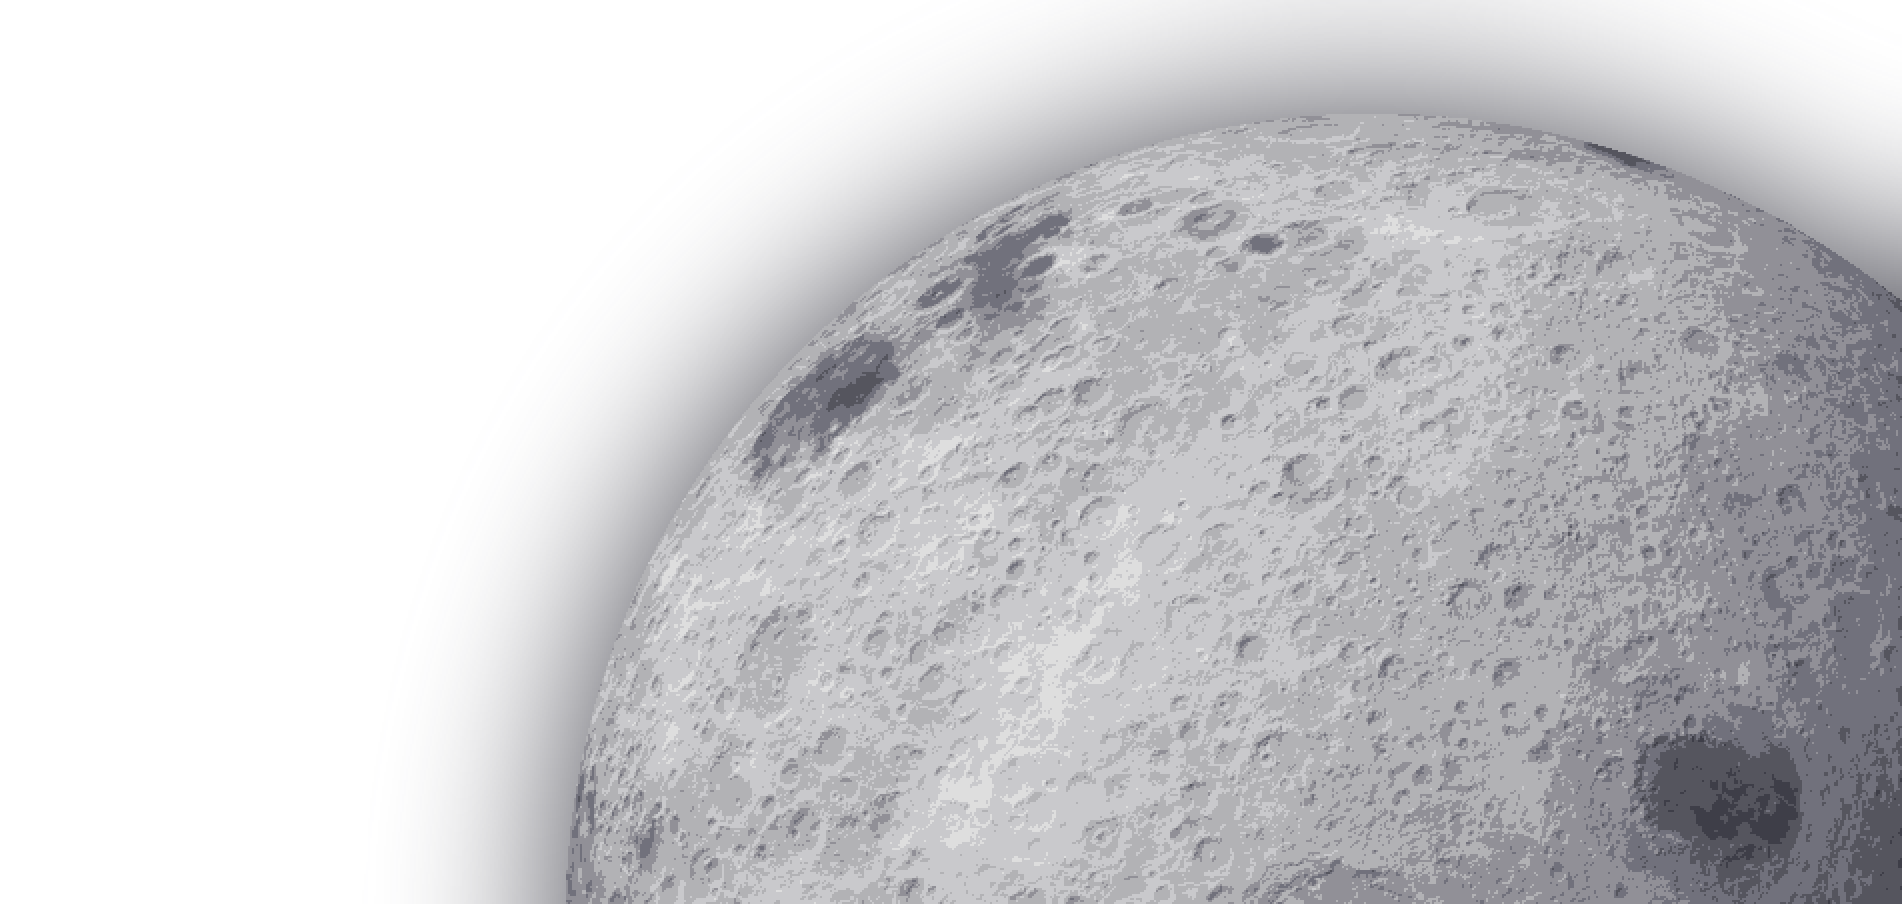
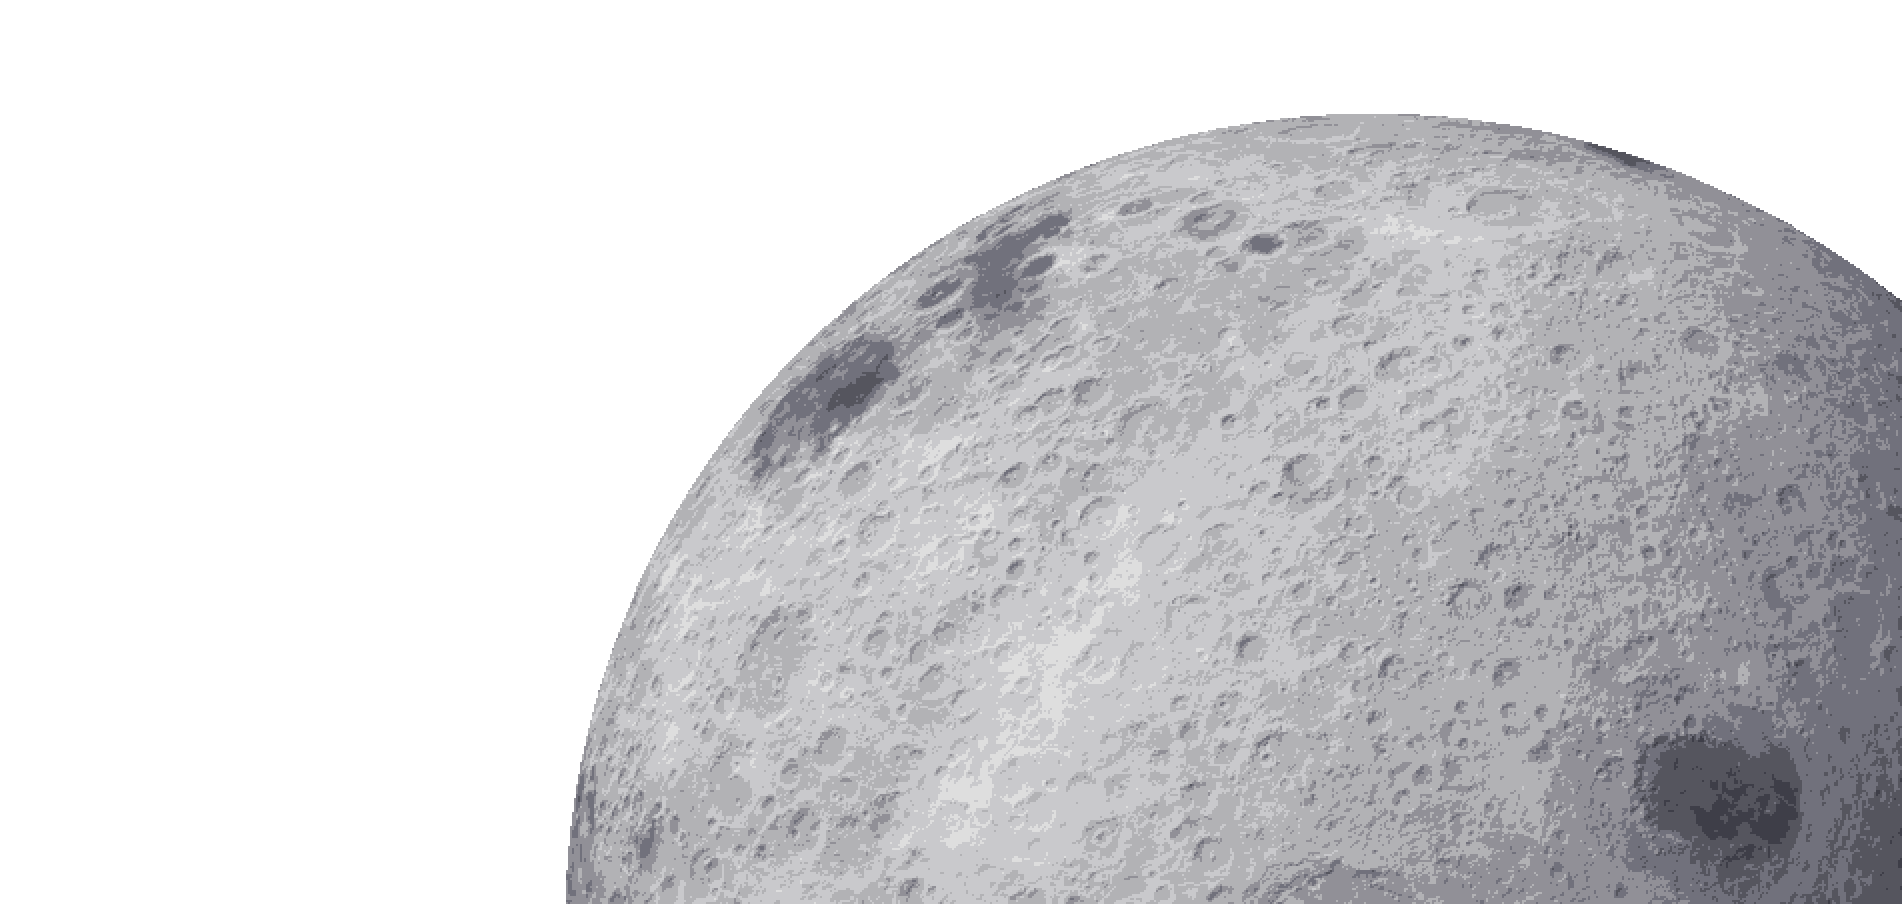
ported moon loading screens, added stars

Changed region(s): [[0.2482, 0.0, 1.0, 1.0]]

diff --git a/Content/Subworlds/Moon/Moon.cs b/Content/Subworlds/Moon/Moon.cs
@@ -6,6 +6,15 @@ using Terraria.ModLoader;
 using Terraria.UI;
 using Terraria.Graphics.Effects;
 using Macrocosm.Backgrounds.Moon;
+using Microsoft.Xna.Framework;
+using Microsoft.Xna.Framework.Graphics;
+using Macrocosm.Common.Utility.IO;
+using Macrocosm.Common.Utility;
+using Terraria.UI.Chat;
+using Terraria.GameContent;
+using ReLogic.Graphics;
+using Terraria.GameInput;
+using Macrocosm.Common.Drawing.Stars;
 
 namespace Macrocosm.Content.Subworlds.Moon
 {
@@ -16,8 +25,9 @@ namespace Macrocosm.Content.Subworlds.Moon
     /// </summary>
     public class Moon : Subworld
     {
+        public const float TimeRate = 0.125f;
 
-        public static float timeRate = 0.125f;
+        public override bool NormalUpdates => base.NormalUpdates;
 
         public override int Width => 2000;
         public override int Height => 1200; // 200 tile padding for the hell-layer.
@@ -28,31 +38,132 @@ namespace Macrocosm.Content.Subworlds.Moon
             new MoonGen("LoadingMoon", 1f, this)
         };
 
-        //public override UIState loadingUIState => new MoonSubworldLoadUI();
-        //public override ModWorld modWorld => null;
-        //public override bool saveModData => true;
-
+        private bool toEarth;
+        private double animationTimer;
+        private Texture2D lunaBackground ;
+        private Texture2D lunaAtmoBackground ;
+        private Texture2D earthBackground ;
+        private Texture2D earthAtmoBackground ;
+        private string chosenMessage;
+        private StarsDrawing starsDrawing = new();
+        private TextFileLoader textFileLoader = new();
 
         public override void OnEnter()
         {
+            animationTimer = 0;
+            lunaBackground = ModContent.Request<Texture2D>("Macrocosm/Content/Subworlds/LoadingBackgrounds/Luna").Value;
+            lunaAtmoBackground = ModContent.Request<Texture2D>("Macrocosm/Content/Subworlds/LoadingBackgrounds/LunaAtmo").Value;
+            toEarth = false;
+            chosenMessage = ListRandom.Pick(textFileLoader.Parse("Content/Subworlds/Moon/MoonMessages"));
+
+            starsDrawing.Clear();
+            starsDrawing.SpawnStars(50, 150);
+
             SkyManager.Instance.Activate("Macrocosm:MoonSky");
-            MoonSky.SpawnStarsOnMoon(true);
+            MoonSky.SpawnStarsOnMoon(Main.dayTime);
         }
 
         public override void OnExit()
         {
+            animationTimer = 0;
+            earthBackground = ModContent.Request<Texture2D>("Macrocosm/Content/Subworlds/LoadingBackgrounds/Earth").Value;
+            earthAtmoBackground = ModContent.Request<Texture2D>("Macrocosm/Content/Subworlds/LoadingBackgrounds/EarthAtmo").Value;
+            toEarth = true;
+            chosenMessage = ListRandom.Pick(textFileLoader.Parse("Content/Subworlds/Earth/EarthMessages"));
+
+            starsDrawing.Clear();
+            starsDrawing.SpawnStars(50, 150);
+            
+
             SkyManager.Instance.Deactivate("Macrocosm:MoonSky");
         }
-
 
         public override void Load()
         {
             // One Terraria day = 86400
             SubworldSystem.hideUnderworld = true;
             SubworldSystem.noReturn = true;
-            Main.dayTime = true;
             Main.numClouds = 0;
-          
+        }
+
+        public override void DrawSetup(GameTime gameTime)
+        {
+            PlayerInput.SetZoom_Unscaled();
+            Main.instance.GraphicsDevice.Clear(Color.Black);
+            this.DrawMenu(gameTime);
+        }
+
+        public override void DrawMenu(GameTime gameTime)
+        {
+            if (toEarth)
+            {
+                Main.spriteBatch.Begin(0, BlendState.Additive, SamplerState.LinearClamp, DepthStencilState.None, Main.Rasterizer, null, Main.UIScaleMatrix);
+                Main.spriteBatch.Draw
+                (
+                    earthAtmoBackground,
+                    new Rectangle(Main.screenWidth - earthAtmoBackground.Width, Main.screenHeight - earthAtmoBackground.Height + 50 - (int)(animationTimer * 10), earthAtmoBackground.Width, earthAtmoBackground.Height),
+                    null,
+                    Color.White * (float)(animationTimer / 5) * 0.8f
+                );
+                Main.spriteBatch.End();
+
+                Main.spriteBatch.Begin(0, BlendState.AlphaBlend, SamplerState.LinearClamp, DepthStencilState.None, Main.Rasterizer, null, Main.UIScaleMatrix);
+
+                starsDrawing.Draw(Main.spriteBatch);
+
+                Main.spriteBatch.Draw
+                (
+                    earthBackground,
+                    new Rectangle(Main.screenWidth - earthBackground.Width, Main.screenHeight - earthBackground.Height + 50 - (int)(animationTimer * 10), earthBackground.Width, earthBackground.Height),
+                    null,
+                    Color.White * (float)(animationTimer / 5) * 0.8f
+                );
+                string msgToPlayer = "Earth"; // Title
+                Vector2 messageSize = FontAssets.DeathText.Value.MeasureString(msgToPlayer) * 1.2f;
+                ChatManager.DrawColorCodedStringWithShadow(Main.spriteBatch, FontAssets.DeathText.Value, msgToPlayer, new Vector2(Main.screenWidth / 2f - messageSize.X / 2f, messageSize.Y), new Color(94, 150, 255), 0f, Vector2.Zero, new Vector2(1.2f));
+                Vector2 messageSize2 = FontAssets.DeathText.Value.MeasureString(chosenMessage) * 0.7f;
+                ChatManager.DrawColorCodedStringWithShadow(Main.spriteBatch, FontAssets.DeathText.Value, chosenMessage, new Vector2(Main.screenWidth / 2f - messageSize2.X / 2f, Main.screenHeight - messageSize2.Y - 20), Color.White, 0f, Vector2.Zero, new Vector2(0.7f));
+            }
+            else
+            {
+                Main.spriteBatch.Begin(0, BlendState.Additive, SamplerState.LinearClamp, DepthStencilState.None, Main.Rasterizer, null, Main.UIScaleMatrix);
+                Main.spriteBatch.Draw
+                (
+                    lunaAtmoBackground,
+                    new Rectangle(Main.screenWidth - lunaAtmoBackground.Width, Main.screenHeight - lunaAtmoBackground.Height + 50 - (int)(animationTimer * 10), lunaAtmoBackground.Width, lunaAtmoBackground.Height),
+                    null,
+                    Color.White * (float)(animationTimer / 5) * 0.8f
+                );
+                Main.spriteBatch.End();
+
+                Main.spriteBatch.Begin(0, BlendState.AlphaBlend, SamplerState.LinearClamp, DepthStencilState.None, Main.Rasterizer, null, Main.UIScaleMatrix);
+
+                starsDrawing.Draw(Main.spriteBatch);
+
+                Main.spriteBatch.Draw
+                (
+                    lunaBackground,
+                    new Rectangle(Main.screenWidth - lunaBackground.Width, Main.screenHeight - lunaBackground.Height + 50 - (int)(animationTimer * 10), lunaBackground.Width, lunaBackground.Height),
+                    null,
+                    Color.White * (float)(animationTimer / 5) * 0.8f
+                );
+
+                string msgToPlayer = "Earth's Moon"; // Title
+                Vector2 messageSize = FontAssets.DeathText.Value.MeasureString(msgToPlayer) * 1.2f;
+                ChatManager.DrawColorCodedStringWithShadow(Main.spriteBatch, FontAssets.DeathText.Value, msgToPlayer, new Vector2(Main.screenWidth / 2f - messageSize.X / 2f, messageSize.Y), Color.White, 0f, Vector2.Zero, new Vector2(1.2f));
+                Vector2 messageSize2 = FontAssets.DeathText.Value.MeasureString(chosenMessage) * 0.7f;
+                ChatManager.DrawColorCodedStringWithShadow(Main.spriteBatch, FontAssets.DeathText.Value, chosenMessage, new Vector2(Main.screenWidth / 2f - messageSize2.X / 2f, Main.screenHeight - messageSize2.Y - 20), Color.White, 0f, Vector2.Zero, new Vector2(0.7f));
+
+            }
+            ChatManager.DrawColorCodedStringWithShadow(Main.spriteBatch, FontAssets.DeathText.Value, Main.statusText, new Vector2((float)Main.screenWidth, (float)Main.screenHeight) / 2f - FontAssets.DeathText.Value.MeasureString(Main.statusText) / 2f, Color.White, 0f, Vector2.Zero, Vector2.One);
+
+            Main.DrawCursor(Main.DrawThickCursor(false), false);
+
+            Main.spriteBatch.End();
+
+            animationTimer += 0.125;
+            if (animationTimer > 5)
+                animationTimer = 5;
         }
     }
 }

diff --git a/Common/Drawing/Stars/MacrocosmStar.cs b/Common/Drawing/Stars/MacrocosmStar.cs
@@ -19,8 +19,8 @@ namespace Macrocosm.Common.Drawing.Stars
         /// <summary>
         /// Adapted from Star.SpawnStars
         /// </summary>
-        /// <param name="baseScale"> The average scaling of the stars </param>
-        /// <param name="twinkleFactor"> How much a star will twinkle, keep betweem (0f, 1f) </param>
+        /// <param name="baseScale"> The average scaling of the stars relative to vanilla </param>
+        /// <param name="twinkleFactor"> How much a star will twinkle, keep between (0f, 1f); 0.4f for vanilla effect</param>
         public MacrocosmStar(float baseScale = 1f, float twinkleFactor = 0.4f)
         {
             FastRandom fastRandom = FastRandom.CreateWithRandomSeed();
@@ -31,7 +31,7 @@ namespace Macrocosm.Common.Drawing.Stars
             rotation = fastRandom.Next(628) * 0.01f;
             scale = fastRandom.Next(70, 130) * 0.006f * baseScale;
             twinkle = Math.Clamp(fastRandom.Next(1, 101) * 0.01f, 1f - twinkleFactor, 1f);
-            twinkleSpeed = fastRandom.Next(30, 110) * 0.0001f;
+            twinkleSpeed = fastRandom.Next(30, 110) * 0.0001f; // TODO: add constructor argument for this
 
             if (fastRandom.Next(2) == 0)
                 twinkleSpeed *= -1f;

diff --git a/Common/Drawing/ChangeTileSkyColor.cs b/Common/Drawing/ChangeTileSkyColor.cs
@@ -6,7 +6,7 @@ using Macrocosm.Content.Subworlds.Moon;
 using Macrocosm.Common.Utility;
 
 namespace Macrocosm.Common.Drawing {
-    public class RemoveTileSkyColor : ILoadable
+    public class ChangeTileSkyColor : ILoadable
     {
         public void Load(Mod mod) {
             On.Terraria.Main.ApplyColorOfTheSkiesToTiles += GrayscaleTileColor;
@@ -18,7 +18,6 @@ namespace Macrocosm.Common.Drawing {
         {
             if (SubworldSystem.IsActive<Moon>())
             {
-                //Color colorOfTheSkies = ColorManipulator.ToGrayscale(Main.ColorOfTheSkies);
                 Color colorOfTheSkies = ColorManipulator.ToGrayscale(Main.ColorOfTheSkies);
 
                 Main.tileColor.R = (byte)((colorOfTheSkies.R + colorOfTheSkies.G + colorOfTheSkies.B + colorOfTheSkies.R * 7) / 10);

diff --git a/Content/MacrocosmWorld.cs b/Content/MacrocosmWorld.cs
@@ -26,14 +26,14 @@ namespace Macrocosm.Content {
 
             if (SubworldSystem.IsActive<Moon>()) 
             {
-                Main.time += Moon.timeRate * (Main.fastForwardTime ? 60 : timeRateModifier); 
+                Main.time += Moon.TimeRate * (Main.fastForwardTime ? 60 : timeRateModifier); 
 
+                // time update logic (behaves weird otherwise)
                 if(Main.dayTime && Main.time >= Main.dayLength)
                 {
                     Main.dayTime = false;
                     Main.time = 0;
                 }
-
                 if (!Main.dayTime && Main.time >= Main.nightLength)
                 {
                     Main.dayTime = true;

diff --git a/Backgrounds/Moon/MoonSky.cs b/Backgrounds/Moon/MoonSky.cs
@@ -27,11 +27,11 @@ namespace Macrocosm.Backgrounds.Moon
             {
                 moonStarsDay.Clear();
                 moonStarsNight.Clear();
-                moonStarsDay.SpawnStars(40, 65, 1.2f, 0.2f);
+                moonStarsDay.SpawnStars(40, 65, 1.2f, 0.05f);
             }
             else
             {
-                moonStarsNight.SpawnStars(200, 300, 0.8f, 0.2f);
+                moonStarsNight.SpawnStars(300, 400, 0.8f, 0.05f);
             }
         }
 

diff --git a/Common/Utility/ItemGlowmaskUtils.cs b/Common/Utility/ItemGlowmaskUtils.cs
@@ -201,7 +201,7 @@ namespace Macrocosm.Common.Utility{
     }
 
     /// <summary>
-    /// Adds a glowmask field to items.
+    /// Adds a glowmask field to GlobalItems.
     /// Code by Hallam
     /// </summary>
     public class GlowmaskGlobalItem : GlobalItem

diff --git a/Content/Subworlds/Moon/MoonGen.cs b/Content/Subworlds/Moon/MoonGen.cs
@@ -455,6 +455,8 @@ namespace Macrocosm.Content.Subworlds.Moon
                     break;
                 }
             }
+
+            Main.dayTime = true;
         }
     }
 }
